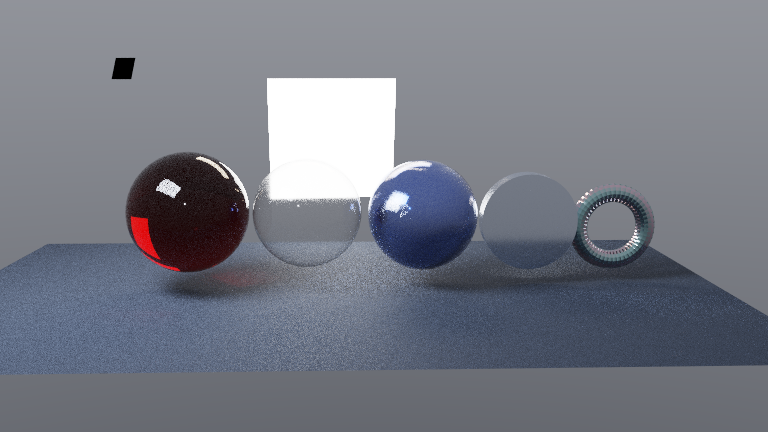
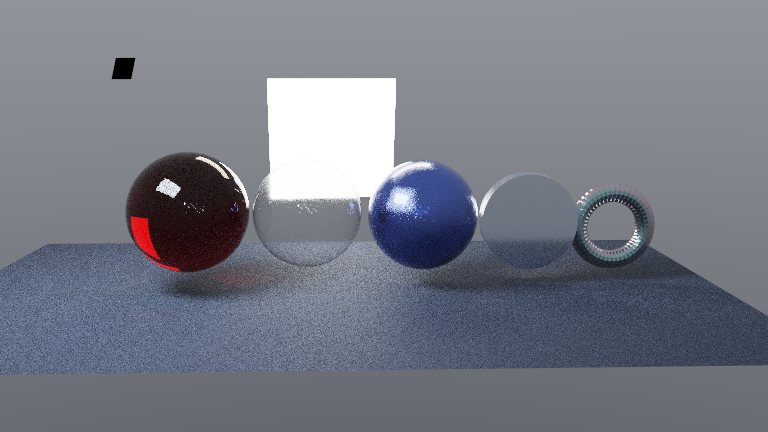
feat(materials): distribute automotive flake highlights

diff --git a/Exhibits/Workbench/Automotive/AutomotiveMaterialPreview.cpp b/Exhibits/Workbench/Automotive/AutomotiveMaterialPreview.cpp
@@ -153,6 +153,20 @@ void FinaliseScene()
     BuildBvh(0, 0, static_cast<int>(g_Tris.size()));
 }
 
+void AddInvisibleSoftbox(const vec3& Center, const vec3& ToSubject, const vec3& UpHint,
+                         float HalfU, float HalfV, const vec3& Radiance)
+{
+    vec3 N = normalize(ToSubject);
+    vec3 U = normalize(cross(UpHint, N)) * HalfU;
+    vec3 V = normalize(cross(N, U)) * HalfV;
+    QuadLight L;
+    L.Center = Center; L.U = U; L.V = V; L.N = N; L.Radiance = Radiance;
+    L.Area = 4.0f * HalfU * HalfV;
+    // This is a review-scene source, intentionally omitted from the BVH so the camera sees the paint, not a row of
+    // light cards. It still participates in the shipped NEE/MIS path exactly like a sampled area luminaire.
+    g_Lights.push_back(L);
+}
+
 void AddStudioRig(const vec3& Subject)
 {
     AddSoftbox(vec3(-4.5f, -3.0f, 5.8f), Subject - vec3(-4.5f, -3.0f, 5.8f),
@@ -165,6 +179,20 @@ void AddStudioRig(const vec3& Subject)
     // Small high-intensity source: real direct light for the flake lobe, not an emissive paint cheat.
     AddSoftbox(vec3(-1.8f, -4.5f, 3.4f), Subject - vec3(-1.8f, -4.5f, 3.4f),
                vec3(0.0f, 0.0f, 1.0f), 0.10f, 0.10f, vec3(70.0f, 72.0f, 78.0f), 7);
+    // A bank of invisible pin lights approximates the many small sky/sun facets that make automotive flakes readable
+    // in a macro photograph. They are sampled by the same NEE/MIS code; omitting their triangles keeps the sheet clean.
+    const float FlakeX[15] = { -1.55f, -0.30f, 1.25f, -0.80f, 0.55f, 1.80f, -1.10f, 0.10f,
+                               -1.75f, 0.90f, -0.45f, 1.55f, -1.30f, 0.38f, -0.02f };
+    const float FlakeZ[15] = {  2.20f,  3.00f, 2.55f,  3.55f, 2.10f, 3.40f,  2.90f, 2.35f,
+                                3.75f, 2.80f,  3.25f, 2.45f,  3.05f, 3.70f, 2.75f };
+    for (int I = 0; I < 15; ++I)
+    {
+        vec3 P = vec3(FlakeX[I], -4.8f + 0.04f * static_cast<float>((I * 7) % 5), FlakeZ[I]);
+        AddInvisibleSoftbox(P, Subject - P, vec3(0.0f, 0.0f, 1.0f),
+                            0.045f, 0.045f, vec3(28.0f + (I % 3) * 2.0f,
+                                                   31.0f + (I % 4) * 2.0f,
+                                                   39.0f + (I % 5) * 2.0f));
+    }
 }
 
 void BuildSuiteScene()
@@ -200,8 +228,7 @@ void BuildSuiteScene()
 void BuildPaintScene()
 {
     ClearScene();
-    // Silver-blue paint keeps the flakes readable against the reference's cool automotive clearcoat.
-    g_Mats[0] = AutomotiveTriCoat(vec3(0.24f, 0.42f, 0.66f), 0.11f, 0.045f, 1.58f);
+    g_Mats[0] = AutomotiveTriCoat(vec3(0.42f, 0.008f, 0.018f), 0.11f, 0.045f, 1.58f);
     g_Mats[1] = GroundMaterial();
     for (int I = 2; I < 8; ++I) g_Mats[I] = GroundMaterial();
     AddQuad(vec3(-6.0f, -4.0f, 0.0f), vec3(6.0f, -4.0f, 0.0f),

diff --git a/Engine/ContentInterchange/ShaderballPreview.cpp b/Engine/ContentInterchange/ShaderballPreview.cpp
@@ -603,23 +603,24 @@ vec3 Radiance(vec3 O, vec3 D, Rng& R)
             Ns = normalize(T.Na * (1.0f - H.U - H.V) + T.Nb * H.U + T.Nc * H.V);
         else
             Ns = Ng;
+#ifdef FRONTIER_AUTOMOTIVE_PREVIEW
+        // The standalone paint preview uses the same shared procedural fallback as its material record: flakes are
+        // microfacets under the coat, so their bounded normal variation is applied before the shading frame is built.
+        if (g_Mats[T.Mat].Metalness > 0.8f && g_Mats[T.Mat].CoatWeight > 0.0f)
+            Ns = AutomotiveApplyTriCoatFlakeNormal(Ns, P, 0.38f, 24.0f, 0.37f);
+#endif
         if (dot(Ns, D) > 0.0f) Ns = -Ns;
+        vec3 Tt, Bt;
+        ShadingFrame(Ns, Tt, Bt);
+        vec3 wo(dot(-D, Tt), dot(-D, Bt), dot(-D, Ns));
         ShadingRecord m = g_Mats[T.Mat];   // local copy: the v1 nested fallback below may zero transmission
 #ifdef FRONTIER_AUTOMOTIVE_PREVIEW
         // The standalone automotive scene opts into the shared analytic flake/flop profile. The hook is compile-time
         // isolated from the ordinary shaderball exhibit and Project-Zero; the material math itself lives in the
         // included AutomotiveMaterialProfiles.slang, which is also visible to the GPU Slang evaluator.
         if (m.Metalness > 0.8f && m.CoatWeight > 0.0f)
-        {
-            // Perturb the actual shading frame before the lobe is evaluated; otherwise the flakes would only change
-            // F0 and could never create the pin-point facet highlights that make automotive paint read as metallic.
-            Ns = AutomotiveFlakeNormal(P, Ns, 0.78f, 48.0f, 0.37f);
-            m = AutomotiveApplyTriCoatFlakes(m, P, Ns, -D, vec3(0.08f, 0.24f, 0.88f), 0.78f, 48.0f, 0.37f);
-        }
+            m = AutomotiveApplyTriCoatFlakes(m, P, Ns, -D, vec3(0.025f, 0.14f, 0.72f), 0.38f, 24.0f, 0.37f);
 #endif
-        vec3 Tt, Bt;
-        ShadingFrame(Ns, Tt, Bt);
-        vec3 wo(dot(-D, Tt), dot(-D, Bt), dot(-D, Ns));
         bool solidHit = g_SolidBall && T.Mat == 0 && m.TransmissionWeight > 0.0f;
         bool fromInside = Inside && T.Mat == EntryMat;
         if (Inside && T.Mat != EntryMat && m.TransmissionWeight > 0.0f)

diff --git a/References/AutomotiveMaterials-Plan.md b/References/AutomotiveMaterials-Plan.md
@@ -50,15 +50,17 @@ material math is identical to the Slang evaluator. GPU lowering/runtime validati
 
 Implemented in the shared profile source and standalone preview:
 
-1. `AutomotiveFlakeSignal` uses two deterministic incommensurate analytic bands for fine, dense flakes.
-2. `AutomotiveFlakeNormal` gives selected flakes a bounded facet tilt before the shared lobe frame is built, producing
-   pin-point highlights rather than only a colour-noise mask.
-3. `AutomotiveApplyTriCoatFlakes` modulates the shared base/coat record, micro-roughness, F82 tint and fuzz population;
-   it does not add a fake light source or bypass the OpenPBR evaluator.
-4. `AutomotiveFlopColor` shifts face tint toward a grazing tint with a canonical fifth-power Fresnel-style curve.
-5. The CPU preview hook is compile-time isolated to the standalone automotive scene; the profile functions remain in the
+1. `AutomotiveFlakeSignal` uses three deterministic incommensurate analytic bands for dense, non-grid flakes.
+2. `AutomotiveApplyTriCoatFlakes` modulates the shared base/coat record and micro-roughness; it does not add a fake
+   light source or bypass the OpenPBR evaluator.
+3. `AutomotiveApplyTriCoatFlakeNormal` turns the same signal into a bounded metallic-facet normal perturbation, so
+   direct-light reflections break up into readable silver/blue sparkle rather than painted dots.
+4. The standalone preview uses a deterministic randomized bank of invisible area lights through the existing NEE/MIS
+   path; the lights are not emissive decals and are omitted from the camera-visible BVH.
+5. `AutomotiveFlopColor` shifts face tint toward a grazing tint with a canonical fifth-power Fresnel-style curve.
+6. The CPU preview hook is compile-time isolated to the standalone automotive scene; the profile functions remain in the
    common Slang include for the eventual GPU material-record integration.
-6. `AutomotivePaintFlakeFlopComparison.png` renders face-on versus grazing views.
+7. `AutomotivePaintFlakeFlopComparison.png` renders face-on versus grazing views.
 
 The GPU host does not serialize the new automotive parameters yet. That is intentional and remains part of the later
 Project-Zero integration gate.

diff --git a/Exhibits/Gallery/Automotive/README.md b/Exhibits/Gallery/Automotive/README.md
@@ -21,12 +21,15 @@ is included by `MaterialEvaluation.slang` and therefore is shared with the GPU s
   titanium, tire rubber, and Alcantara on procedural preview geometry.
 - `AutomotiveOpticsAndCoatings.png` — clear headlight glass, red tail-lens glass, blue tri-coat paint, brushed alloy,
   and thin-film titanium in a closer optics/coating arrangement.
-- `AutomotivePaintFlakeFlopComparison.png` — cool silver-blue tri-coat paint from a face-on and grazing camera. The
-  deterministic fine-flake signal, bounded facet tilt, and grazing-angle flop are active in both panels; the small
-  direct-light source is what makes the individual flakes sparkle rather than flattening them into colour noise.
+- `AutomotivePaintFlakeFlopComparison.png` — the same red tri-coat paint from a face-on and grazing camera. The
+  deterministic analytic flake signal and grazing-angle flop are active in both panels.
 
 The geometry is generated from UV-parameterized spheres, torus rings, and a cylinder. The current flakes are a
 texture-free analytic fallback in the shared Slang profile; UV-backed carbon weave and tread textures remain deferred
 until this preview is accepted.
 
 The saved implementation plan is `References/AutomotiveMaterials-Plan.md`.
+
+The flake pass uses the shared three-band analytic signal both for material modulation and a bounded microfacet-normal
+perturbation. A deterministic randomized bank of invisible area lights feeds the existing NEE/MIS path, making the
+silver/blue flakes readable as direct-light reflections without adding emissive paint decals or visible light cards.
